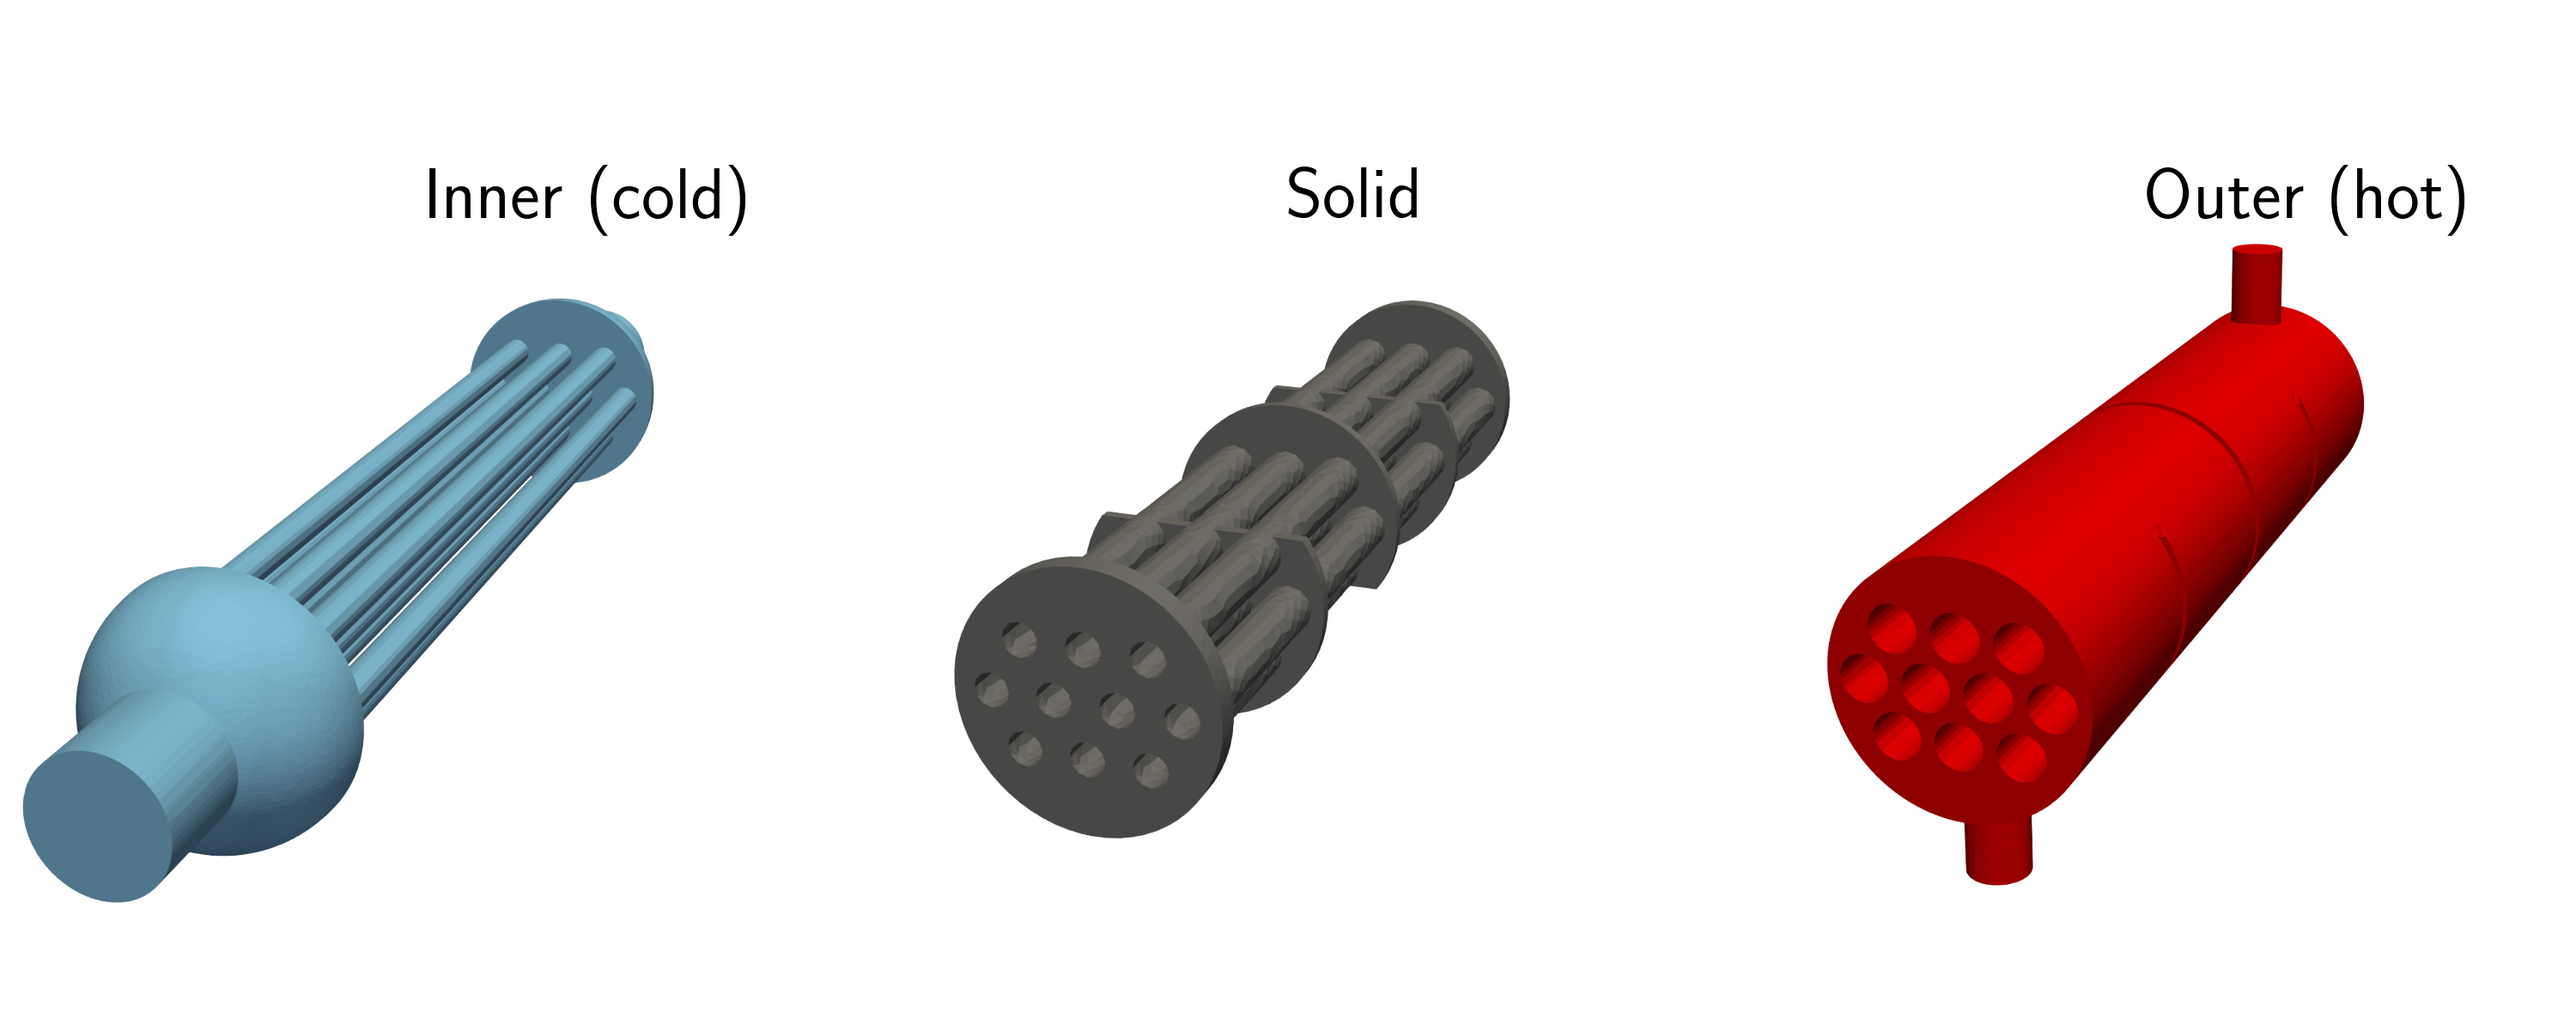
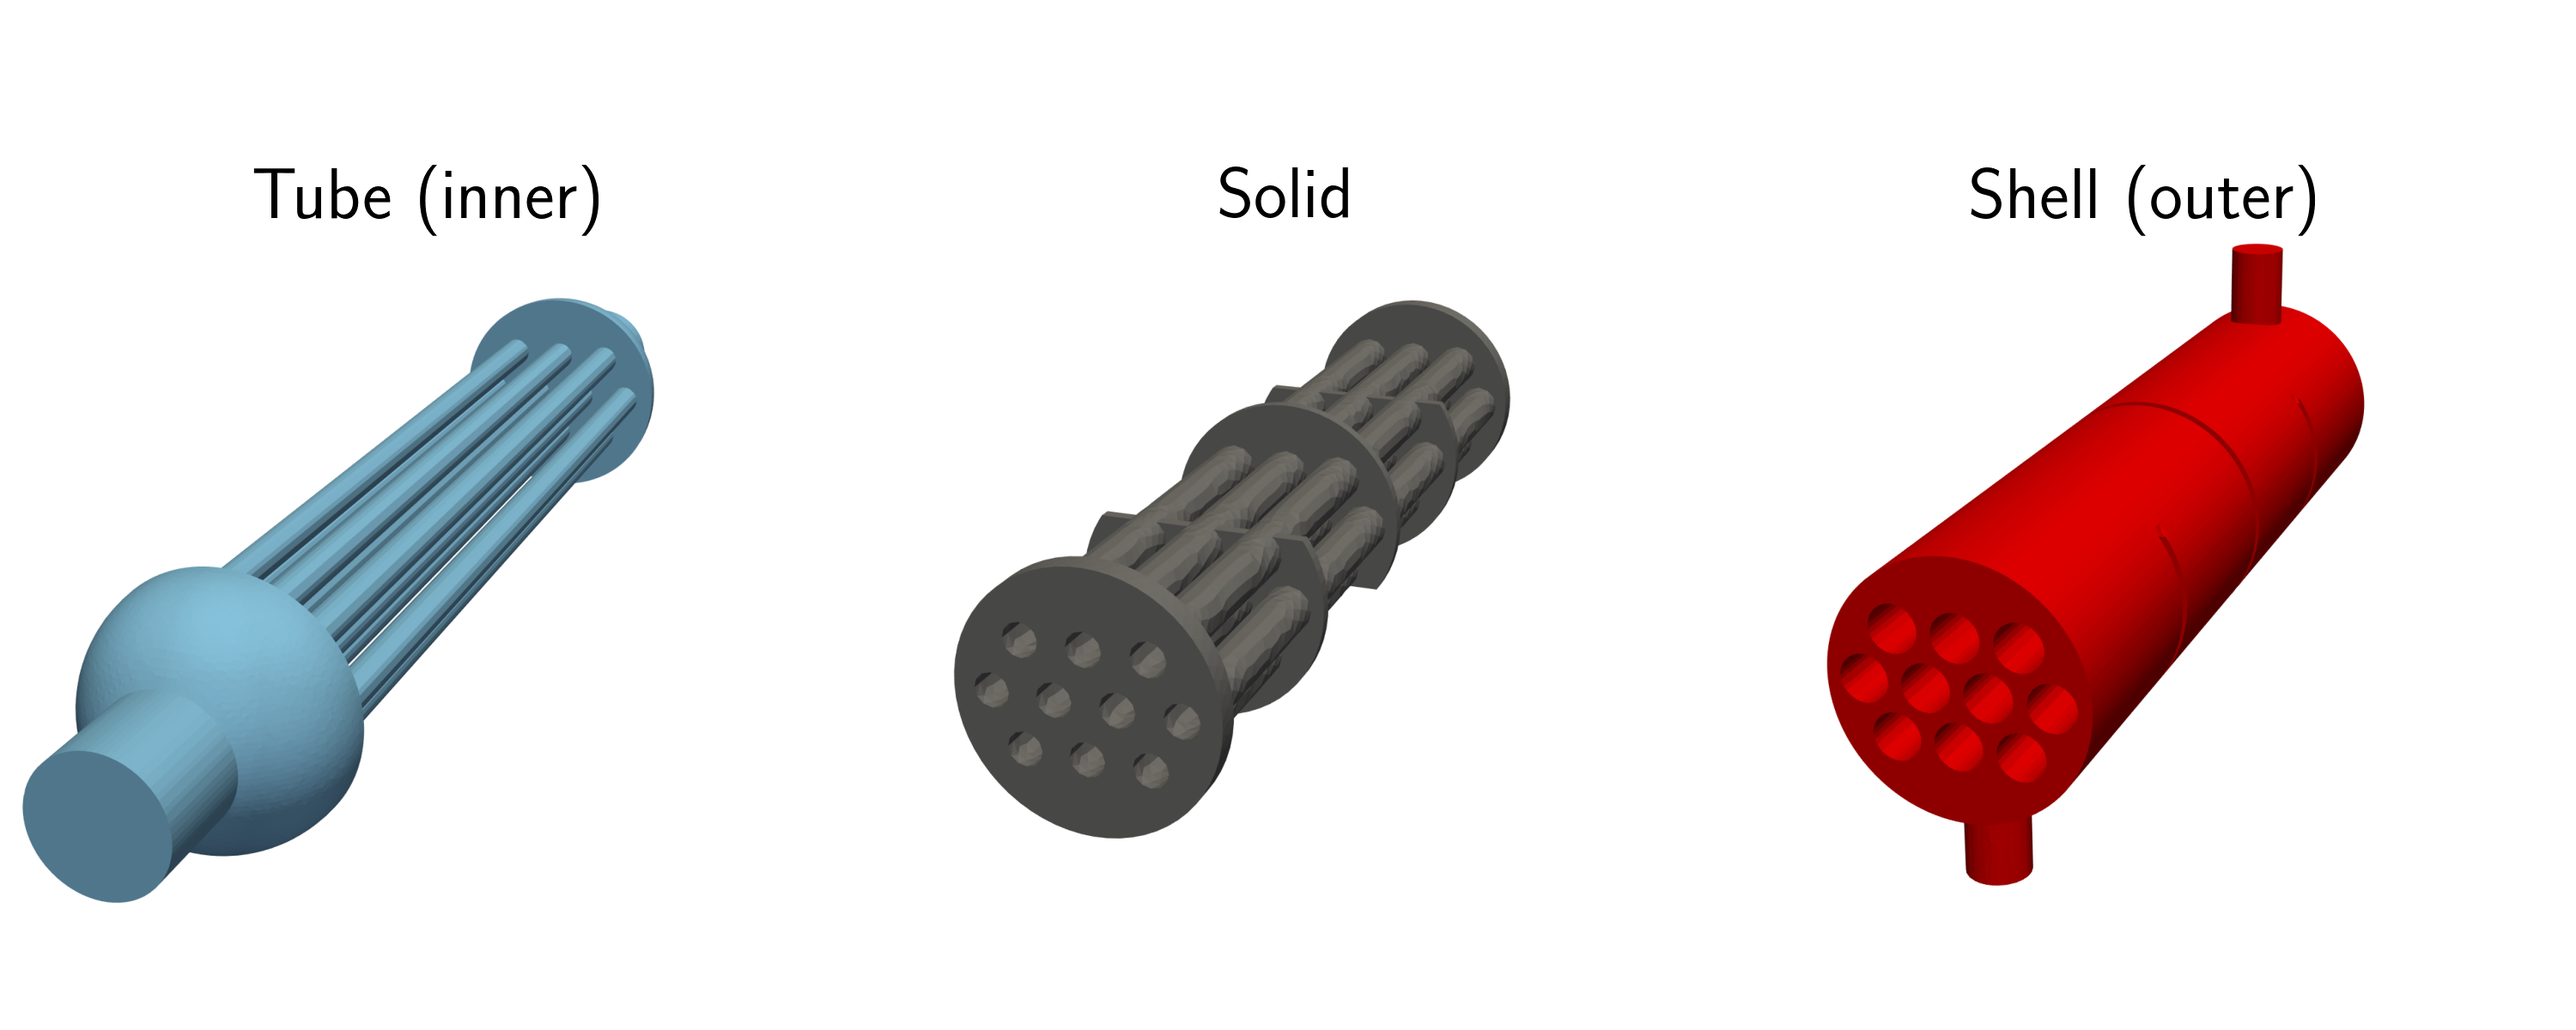
Improve images and add captions to remove doc build warnings

Changed region(s): [[0.744, 0.1542, 0.961, 0.2158], [0.093, 0.1542, 0.279, 0.2158], [0.465, 0.1542, 0.558, 0.2158]]

diff --git a/doc/content/shell_tube_hx.md b/doc/content/shell_tube_hx.md
@@ -1,6 +1,6 @@
 # Shell and tube heat exchanger tutorial
 
-This tutorial builds on the [step-by-step example](step_by_step.md) conjugate heat transfer (CHT) example,
+This tutorial builds on the [step-by-step conjugate heat transfer (CHT) example](step_by_step.md),
 extending it to more complex geometries and meshes,
 although the precedure is essentially the same.
 The tutorial is based on one for the [preCICE coupling framework](https://precice.org/tutorials-heat-exchanger.html)
@@ -15,7 +15,8 @@ This tutorial contains three regions:
    containing baffles to enhance heat transfer
 3. **Solid region:** metal between the tube and shell regions.
 
-!media images/shell_tube_hx/shell_tube_geom.png style=width:75%;align=center
+!media images/shell_tube_hx/shell_tube_geom.png style=width:75%;align=center;
+       caption=Solid and fluid domains of shell and tube heat exchanger
 
 ### Coupling strategy
 
@@ -296,12 +297,14 @@ pip install pyvista
 
 Use `python post.py` to display the heat exchanger.
 
-!media images/shell_tube_hx/shell_tube_hx.png style=width:50%;align=center
+!media images/shell_tube_hx/shell_tube_hx.png style=width:50%;align=center;
+       caption=Hippo results showing streamlines in the outer region
 
 The results can also be compared with the preCICE tutorial as the same meshes
 have been used. For the fluid domains the relative errors are shown below
 
-!media images/shell_tube_hx/error.png style=width:50%;align=center
+!media images/shell_tube_hx/error.png style=width:50%;align=center;
+       caption=Pointwise comparison with preCICE tutorial.
 
 The differences are small except close to the boundaries and particularly
 in the corners, this is likely due to the different coupling strategies,

diff --git a/doc/content/step_by_step.md b/doc/content/step_by_step.md
@@ -34,7 +34,8 @@ We will transfer the wall temperature from OpenFOAM
 and set that as a Dirichlet boundary condition on the MOOSE solve.
 These transfers will occur at every time step.
 
-!media images/step_by_step/setup.svg style=width:75%;align=center
+!media images/step_by_step/setup.svg style=width:75%;align=center;
+       caption=Fluid and solid domains.
 
 ## Setting Up the OpenFOAM Case
 
@@ -421,7 +422,8 @@ or in parallel
 $ mpirun -n 2 hippo-opt -i flow_over_heated_plate.i && reconstructPar -case fluid-openfoam
 ```
 
-!media images/step_by_step/flow_over_heated_plate.png style=width:75% caption=The result of the coupled solve after 10 seconds.
+!media images/step_by_step/flow_over_heated_plate.png style=width:75%;
+       caption=The result of the coupled solve after 10 seconds.
 
 Find the completed input files below:
 
